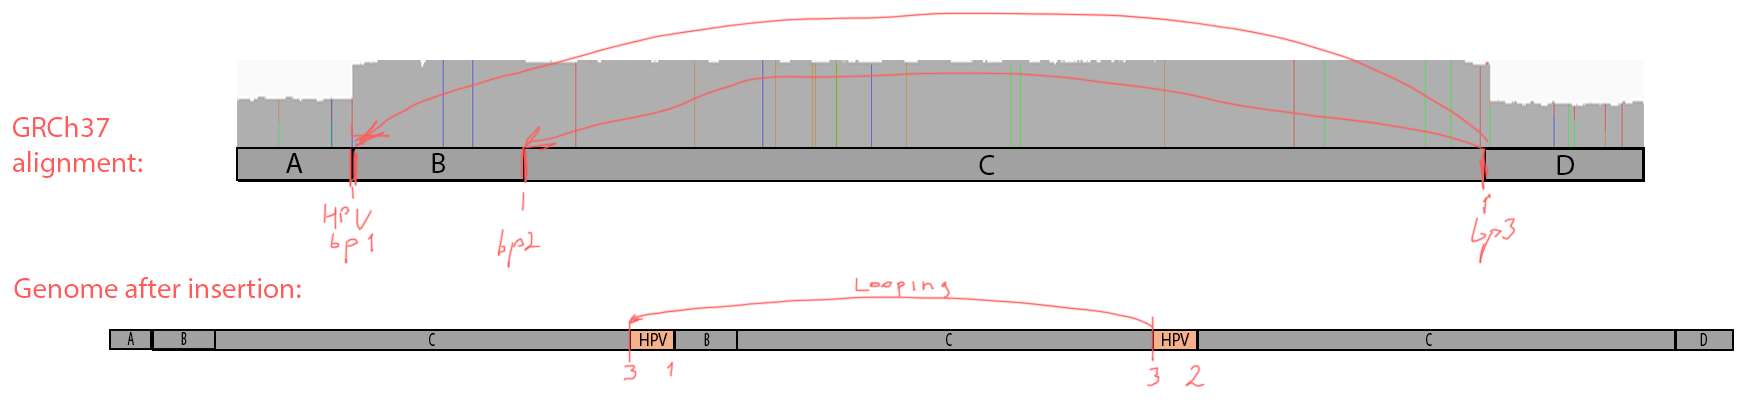
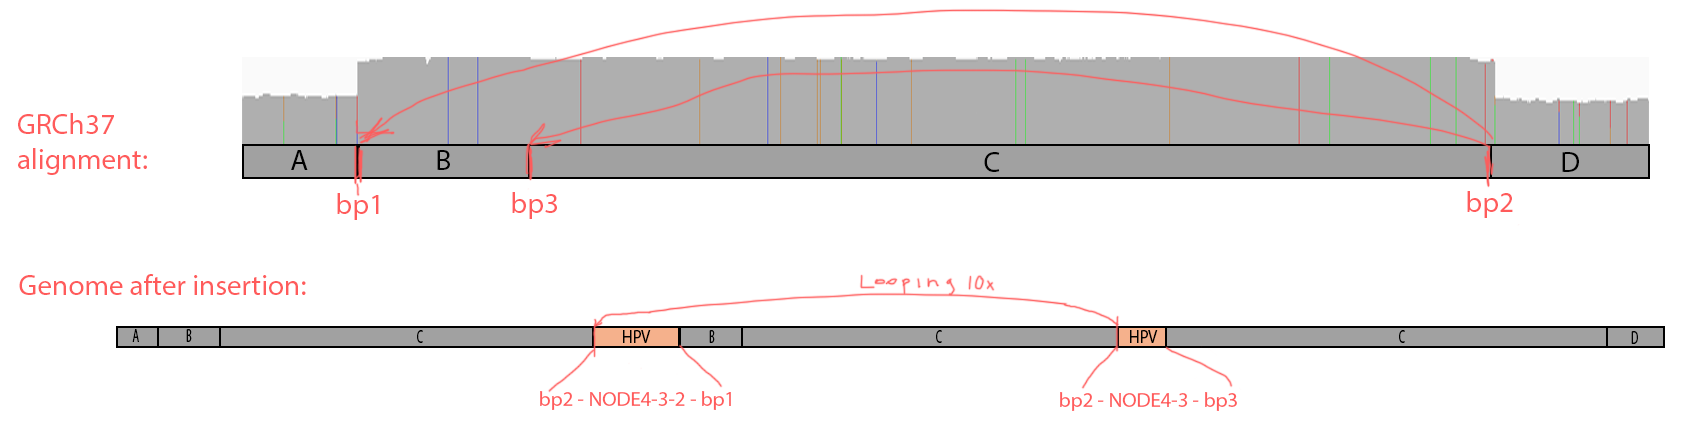
Update HPV18 post (more on genes and looping model)

diff --git a/insertions/NeverResponderViruses_Blog.md b/insertions/NeverResponderViruses_Blog.md
@@ -1,17 +1,17 @@
 # Oncoviral integration in cervical never-responder
 
-A patient with a possible very atypical cervical carcinoma has not responded to any standard therapies. There were no obvious oncogenic drivers, however the whole genome NGS analysis showed possible HPV content, the virus that is often associated with cervical cancers. Here we explore the viral sequences in this sample and their oncogenicity.
+A patient with a possible very atypical cervical carcinoma has not responded to any standard therapies. There were no obvious oncogenic drivers, however the whole genome NGS analysis showed possible HPV content, which is [strongly associated with cervical carcinoma](http://www.who.int/mediacentre/factsheets/fs380/en/). Here we explore the viral sequences in genomic data and their oncogenicity.
 
 
 ## Exploring taxonomic content
 
 We performed whole genome sequencing at ~80x depth of coverage on average, and aligned the reads to the human genome build GRCh37 with BWA-MEM, using the bcbio-nextgen analysis workflow.
 
-Oncoviruses like HPV usually cause malignancies by integrating into host's DNA, and in NGS alignment data they appear as structural variations with novel sequences supposedly supported by unmapped reads. Such novel insertions cannot be reconstructed only by read alignment because of the viral parts that do not belong to the reference. Thus, as a next step we extraced the reads analigned to the human genome, and additionally added the reads with unmapped mates that can possibly point to the integration breakpoints.
+Oncoviruses like HPV usually cause malignancies by integrating into host's DNA, and in NGS alignment data they appear as structural variations with novel sequences supposedly supported by unmapped reads. Such novel insertions cannot be reconstructed only by read alignment because of the viral parts that do not belong to the reference. Thus, as a next step we extracted the reads unaligned to the human genome, and additionally added the reads with unmapped mates that can possibly point to the integration breakpoints.
 
 Then we queried the target reads against a database of oncoviruses, acquired from [Genomics Data Commons](https://gdc.cancer.gov/about-data/data-harmonization-and-generation/gdc-reference-files). We've done that by mapping selected reads with BWA-MEM against those viral sequences, and selecting those with high read support. Specifically, we select sequences with the highest coverage completeness at 5x of depth. Some viral sequences contain repetitive regions that attract lots of reads, so we wanted to make sure that the enough percentage of the viral sequence is covered.
 
-In this sample, the only one confiently detected oncovirus is HPV18:
+In this sample, the only one confidently detected oncovirus is HPV18, which is the second most oncogenic HPV type:
 
 ```                       completeness at coverage
 name     len   mean depth   1x    5x   25x
@@ -33,104 +33,75 @@ All 4 contigs together evenly cover the whole reference sequence. NODE\_2, NODE\
 The fact that all contigs overlap slightly but were not merged together into single long contig, suggests that there were possible structural rearrangements, probably due to the human genome integration.
 
 
-## Finding integration sites
+## Seeking integration sites
 
-To identify if the virus was integrated into human, we find the reads that map to the virus and have mates mapping to the human genome. We would expect reads of forward orientation to pile up to the left of the breakpoint, and reads of the opposite orientation to pile up to the right of the breakpoint; a simmetrical picture would be expected on the human chromosome as well. In order to visualize it in IGV, we made a "chimeric" reference genome by adding HPV18 as another choromosome into GRCh37, and remapped the viral reads against this assembly.
+To identify if the virus was integrated into human, we find the reads that map to the virus and have mates mapping to the human genome. We would expect reads of forward orientation to pile up to the left of the breakpoint, and reads of the opposite orientation to pile up to the right of the breakpoint; a symmetrical picture would be expected on the human chromosome as well. In order to visualise it in IGV, we made a "chimeric" reference genome by adding HPV18 as another chromosome into GRCh37, and remapped the viral reads against this assembly.
 
-Below is the HPV18 region in IGV with reads groupped by the mate chromosome (based on [the color scheme](https://software.broadinstitute.org/software/igv/interpreting_insert_size), the small green group is from chromosome 3, the large purple group is from chromosome 8, and all gray read pairs are entirely mapped to HPV18). The read direction is annotated with blue arrows.
+Below is the HPV18 region in IGV with reads grouped by the mate chromosome (based on [the color scheme](https://software.broadinstitute.org/software/igv/interpreting_insert_size), the small green group is from chromosome 3, the large purple group is from the chromosome 8, and all gray read pairs are entirely mapped to HPV18). The read direction is annotated with blue arrows.
 
 ![igv](assemble/diploid/img/igv_spike_HPV18.png)
 
-There is a quite evident support for human genome integration to chromosome 8 (with purple reads), and a smaller support for the chromosome 3 integration with the green reads. All reads in each colored pile have the same direction, and their mates simmetrically cluster in GRCh37.
+There is a quite evident support for human genome integration to chromosome 8 (tree breakpoints with purple read), and a smaller support for the chromosome 3 integration with the green reads. All reads in each colored pile have the same direction, and their mates symmetrically cluster in GRCh37.
 
-The leftmost purple reads mates are mapping mapping to 8:128,303,800-128,304,900. The second rightmost purple pile in the beginning of NODE\_3 has its mates mapping 16kb apart downstream: to 8:128,319,000-128,321,000. The rightmost purple pile mates is mapping 3kb downstream from the leftmost pile - to 8:128,307,000-128,308,000.
+The leftmost purple reads mates (bp1) are mapping mapping to 8:128,303,800-128,304,900. The second rightmost purple pile in the beginning of NODE\_3 (bp2) has its mates mapping 16kb apart downstream: to 8:128,319,000-128,321,000. The mates of the rightmost purple pile (bp3)  map 3kb downstream from bp1 - to 8:128,307,000-128,308,000.
 
 ![igv](assemble/diploid/img/igv_GRCh37_full_region_with_virus_no_virual_genes.png)
 
-This suggests that the deeply covered NODE\_2–NODE\_3–NODE\_4 part of the virus got inserted into chromosome 8.
+This suggests that the deeply covered 4kb part of the virus containing contigs NODE\_2–NODE\_3–NODE\_4 was inserted into the chromosome 8.
 
-Worth noting that the green reads map to 3:186,691,636-186,699,490, suggesting another possible integration site. However the integration is not so clear, so we are focusing just on the chr8 integration for now.
-	
 
-## Chromosome 8 integration site
+## Integration model
 
-The read orientations spanning the breakpoints suggest a quite complex event rather than a simple insertion of the virus. Exploring the full 16kb GRCh37 region covering all 3 breakpoints:
-	
-![igv](assemble/diploid/img/igv_GRCh37_full_region.png)
+The read orientations spanning the breakpoints suggest a more complex event rather than a simple insertion of a part of the virus. Exploring the full 16kb GRCh37 region covering all 3 breakpoints, we can see that 2 of the breakpoint positions show up very clearly, and it's also evident that:
 
-We can see that 2 of the breakpoint positions show up very clearly, and it's also evident that:
+- The NODE\_2–NODE\_3–NODE\_4 region is amplified heavily instead of being deleted, meaning that the virus didn't just replace the region with itself, resulting in some more complex event;
 
-- The NODE\_2–NODE\_3–NODE\_4 region is amplified heavily instead of being deleted, meaning that the virus didn't replace the region with itself, resulting in some more complex event;
+- The read orientations tell us that the viral amplified region got attached to the rightmost chromosome 8 breakpoint (bp2) from the right side, and to the left breakpoints (bp1 and bp3) from the left side, which rejects the idea of a simple insertion;
 
-- The read orientations tell us that the viral amplified region got attached to the rightmost chr8 breakpoint from the right side, and to the left breakpoints from the left side, which rejects the idea of a simple insertion;
+- The chromosome 8 region between the breakpoints is heavily amplified, at roughly the same coverage as the viral amplified region.
 
-- chr8 region between the breakpoints is heavily amplified, at roughly the same coverage as the viral amplified regon.
+A kind of integration model that will explain the data would be as follows. The virus created a loop by attaching to bp1 and bp2, and this loop went around multiple times heavily amplifying the chromosome 8 16kb region, as well as the 4kb viral region NODE\_2–NODE\_3–NODE\_4. While looping, it has also likely occasionally got attached to the inner left breakpoint instead bp3 of the leftmost one. Indeed, things like this are typical for HPV viruses, e.g. see [Akagi et al.](https://www.ncbi.nlm.nih.gov/pmc/articles/PMC3912410/figure/F4/). Such regular concatemers composed of viral and host sequences, adjoined by identical HPV-breakpoint sequences, may have accumulated as a result of DNA replication originating from the viral origin of replication. 
 
-That suggests that the virus created a loop by attaching to the leftmost and the rightmost breakpoints, and this loop is going around multiple times heavily amplifying the chr8 16kb region as well as the viral region NODE\_2–NODE\_3–NODE\_4. While looping, it also likely occasionally got attached to the inner left breakpoint instead of the leftmost one. Indeed, things like this are typical for HPV viruses, e.g. see [Akagi et al.](https://www.ncbi.nlm.nih.gov/pmc/articles/PMC3912410/figure/F4/).
-
-In our case, the integration events might have led to the following sequence:
-
-```
-A - B - C - (NODE_4-NODE_3-NODE_2 - B - C)*~10 - NODE_4-NODE_3 - C - D
-```
-
-Regions A, B, C, D are parts of the human reference according to the IGV screenshot in the beginning of the section; NODE\_1, NODE\_2, NODE\_3, NODE\_4 are viral contigs according the earlier sections. 
+In our case, the integration events might have led to the following sequence (regions A, B, C, D are parts of the human reference according to the IGV screenshot in the beginning of the section):
 
 ![igv](assemble/diploid/img/looping.png)
 
-### Host genes
 
-The integration site overlaps long non-coding RNA genes CASC21 (Cancer Susceptibility 21, CARLo-2) and CASC8 (Cancer Susceptibility 8, CARLo-1) in their introns. Both genes are associated with cancer, and located in a region 8q24.21 nearby the oncogene MYC, which is amplified in this sample.
+## HPV18 genes
 
-The 8q24.21 location is well known as an HPV integration site hotspot [[1](https://www.ncbi.nlm.nih.gov/pmc/articles/PMC4695887), [2](https://www.ncbi.nlm.nih.gov/pubmed/1649348/), [3](https://www.nature.com/articles/1207006)]:
+Papillomavirus genome can be divided into three regions: an early region that encodes six common ORFs E1, E2, E4, E5, E6 and E7, a late region coding ORFs L1 and L2, and a long control region that holds the origin of replication and transcription factor binding sites [[Williams et al.](https://www.ncbi.nlm.nih.gov/pmc/articles/PMC3037184/)]. 
 
-> In genital cancers, HPV sequences were localized in chromosome band 8q24.1, in which the c-myc gene is mapped. In three of the four cases, the proto-oncogene located near integrated viral sequences was found to be structurally altered and/or overexpressed. These data indicate that HPV genomes are preferentially integrated near myc genes in invasive genital cancers and support the hypothesis that integration plays a part in tumor progression via an activation of cellular oncogenes.
+<img src="assemble/diploid/img/HPV18-genome-The-circular-dsDNA-genome-of-HPV18-7-857-bp-is-shown-Viral-open-reading.png" alt="HPV circular genes" style="width: 200px;"/>
 
-That supports the suggestion of patient's cervical carcinoma, that is nearly always [caused by HPV16 and HPV18](http://www.who.int/mediacentre/factsheets/fs380/en/). We as well observe a somatic MYC amplification detected by a copy number variation CNVkit.
+Two viral oncoproteins, E6 and E7 are attributed with the ability of evading the immune system and using the host cell replication machinery to survive [[Scheurer et al.](https://onlinelibrary.wiley.com/doi/abs/10.1111/j.1525-1438.2005.00246.x)]. Those genes inactivate two tumor suppressor proteins, p53 (by E6) and pRb family (by E7) [[Chaturvedi et al.](https://link.springer.com/chapter/10.1007%2F978-1-4419-1472-9_5)], and are mainly associated with malignancies.
 
-## HPV18 oncogenes
+High levels of E2 down-regulate the early promoter activity, and thus enhances E6 and E7 transcription [[Mcbride et al.](https://www.researchgate.net/figure/HPV18-genome-The-circular-dsDNA-genome-of-HPV18-7-857-bp-is-shown-Viral-open-reading_fig1_236977461)]. For tumor to progress, viral oncogene expression must remain consistently high [[Higgins et al](https://www.ncbi.nlm.nih.gov/pubmed/1322961)], and it usually occurs due to integration of truncated viral genomes with missing or disrupted E2 [[Scheurer et al.](https://onlinelibrary.wiley.com/doi/abs/10.1111/j.1525-1438.2005.00246.x)]. This event is not a normal part of the viral lifecycle, as it is accompanied by the loss of other viral genes needed for synthesis of an infectious virion [[Williams et al.](https://www.ncbi.nlm.nih.gov/pmc/articles/PMC3037184/)]. The degree to which E6 and E7 are expressed is correlated with the type of cervical lesion that can ultimately develop [[Bernard et al.](https://www.ncbi.nlm.nih.gov/pmc/articles/PMC251048/)].
 
-Among total eight HPV18 genes, two act as oncogenes: E6 and E7. [Akagi et al.](https://www.ncbi.nlm.nih.gov/pmc/articles/PMC3912410):
-
-> The transforming ability of oncogenic HPV types has been attributed to two viral oncoproteins, E6 and E7, which inactivate p53 and members of the pRb family.
-
-> HPV integrants in cervical cancers have been statistically associated with regional structural abnormalities, but the relationship of the virus to such variants, their detailed genomic structures, and their functional significance remain largely unknown. 
-
-[Chaturvedi et al.](https://link.springer.com/chapter/10.1007%2F978-1-4419-1472-9_5):
-
-> The E6/E7 proteins inactivate two tumor suppressor proteins, p53 (inactivated by E6) and pRb (inactivated by E7).
-
-E2 regulates E6 and E7, however the viral integration usually disrupts it. [Scheurer et al.](https://onlinelibrary.wiley.com/doi/abs/10.1111/j.1525-1438.2005.00246.x):
-
-> Viral early transcription subjects to viral E2 regulation and high E2 levels repress the transcription. HPV genomes integrate into host genome by disruption of E2 ORF, preventing E2 repression on E6 and E7. Thus, viral genome integration into host DNA genome increases E6 and E7 expression to promote cellular proliferation and the chance of malignancy. The degree to which E6 and E7 are expressed is correlated with the type of cervical lesion that can ultimately develop.
-
-[Mcbride et al](https://www.researchgate.net/figure/HPV18-genome-The-circular-dsDNA-genome-of-HPV18-7-857-bp-is-shown-Viral-open-reading_fig1_236977461):
-
-> The viral genome is most often integrated in such a way as to disrupt the E2 gene and, thus, alleviate transcriptional repression of the early viral promoter. In turn, this causes dysregulation of the E6 and E7 oncogenes and promotes malignant progression
-
-![hpv_genes](assemble/diploid/img/HPV18-genome-The-circular-dsDNA-genome-of-HPV18-7-857-bp-is-shown-Viral-open-reading.png)
-
-By overlaying [HPV18 genes](https://www.ncbi.nlm.nih.gov/gene/1489088) on coverage, we can see that E6 and E7 are amplified heavily:
+By overlaying [HPV18 genes](https://www.ncbi.nlm.nih.gov/gene/1489088) on coverage, we can see that E6 and E7 are indeed amplified heavily:
 
 ![igv](assemble/diploid/img/HPV18_genes.png)
 
-And even though the integration breakpoints site don't disrupt E2, that part is not integrated into human genome, and thus not amplified and likely not expressed. 
+And even though the integration breakpoints site didn't disrupt E2, that gene was apparently not the part of the virus that was integrated into human genome, has a low coverage and likely under-expressed.
 
-It would be interesting to perform RNAseq on this sample and quantify the expression of viral genes E6, E7, E2, as well as human MYC, TP53, and RB1. Additionally, MYC significantly upregulates genes with already high expression, so it would be interesting to look for other overexpressed genes.
 
-## Discussion
+## Host genes
 
-One interesting obervation comes from blasting the contigs against all human sequences: it reports 18% coverage in a chr8 alternative assembly, and same 18% in hg38:
+The chromosome 8 integration site overlaps long non-coding RNA genes CASC21 (Cancer Susceptibility 21, CARLo-2) and CASC8 (Cancer Susceptibility 8, CARLo-1) in their introns. Both genes are associated with cancer, and located in a region 8q24.21 nearby the oncogene MYC.
 
-![blast](assemble/diploid/img/blast_HPV18.png)
+The 8q24.21 location is well known as an HPV integration site hotspot in genital cancers [[Doolittle-Hall et al.](https://www.ncbi.nlm.nih.gov/pmc/articles/PMC4695887), [Ferber et al.](https://www.nature.com/articles/1207006)]. It has a very strong association with adjacent genomic amplifications and rearrangements [[Akagi et al](https://www.ncbi.nlm.nih.gov/pmc/articles/PMC3912410/)], and plays a part in tumor progression via an activation of cellular oncogenes. In particular, 8q24.21 integration is in most cases associated with alteration or over-expression of nearby located oncogene MYC [[Couturier et al.](https://www.ncbi.nlm.nih.gov/pubmed/1649348/)]. We indeed observe a focal MYC amplification in the patient's data. 
 
-It would be interesting to perform the same experiment with hg38.
+However, the relationship of the virus to such regional structural abnormalities, their detailed genomic structures and their functional significance remain largely unknown [[Akagi et al](https://www.ncbi.nlm.nih.gov/pmc/articles/PMC3912410/)]. 
 
-### References
 
-[1](https://www.ncbi.nlm.nih.gov/pmc/articles/PMC395710/pdf/520275.pdf)
 
-[2](https://www.ncbi.nlm.nih.gov/pmc/articles/PMC3912410/)
+## Further work directions
+
+1. It would be very interesting to perform RNAseq on this sample and quantify the expression of viral E6, E7, E2; as well as human MYC, TP53, and RB1. Additionally, MYC significantly up-regulates genes with already high expression, so it would be interesting to look for other over-expressed genes.
+
+2. There are HPV18 reads (colored moss green on the IGV screenshot) which mates consistently map to 3:186,691,636-186,699,490 region of the human genome, suggesting another possible integration site. However it's not so clear and occurs in a low covered region.
+
+3. One interesting observation comes from blasting the contigs against all human sequences: it reports 18% coverage in a chromosome 8 alternative assembly, and same 18% in hg38. It would be interesting to perform the same experiment with hg38 which likely includes parts of HPV18.
+
 
 
 
